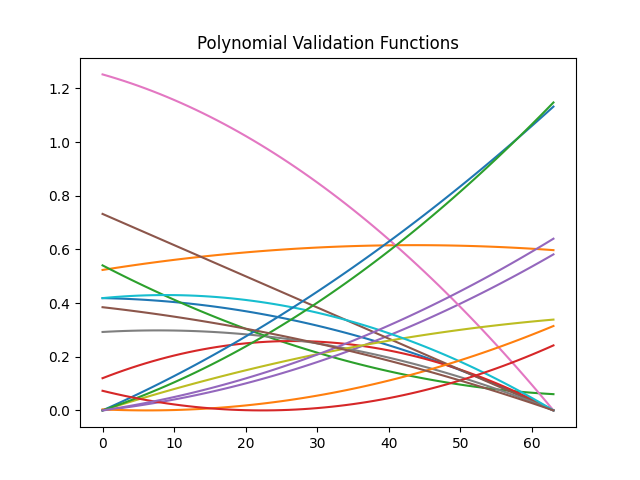
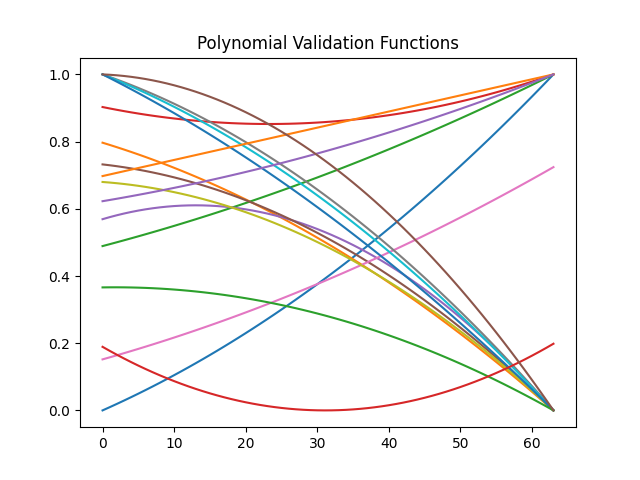
more tuning for sin classifier

diff --git a/py/main.py b/py/main.py
@@ -29,6 +29,7 @@ def get_random_poly(device):
 
     poly_tensor /= 5*NUM_STEPS**2
     poly_tensor -= min(0, torch.min(poly_tensor).item())
+    poly_tensor /= max(1, torch.max(poly_tensor).item())
 
     return poly_tensor
 
@@ -40,12 +41,11 @@ def get_random_sin(device):
     
     w = np.random.random() + 0.025
     phi = np.random.random() * 2*np.pi
-    A = 5 * (2*np.random.random()-1) * NUM_STEPS**2
+    A = np.random.random() / 2
     
     for t in range(NUM_STEPS):
         sin_tensor[t][:] = A*np.sin(w*t + phi)
 
-    sin_tensor /= 5*NUM_STEPS**2
     sin_tensor -= min(0, torch.min(sin_tensor).item())
     
     return sin_tensor
@@ -100,7 +100,7 @@ def main(args):
 
     train(
         net, training_data=train_data, validation_data=val_data,
-        learning_rate=1e-3, batch_size=32, plot=True, checkpoint_freq=10,
+        learning_rate=1e-1, batch_size=1, plot=True, checkpoint_freq=10,
         shuffle=True, classifier=True
     )
         

diff --git a/py/train.py b/py/train.py
@@ -96,7 +96,7 @@ def train(net: linet.LiNet, num_epochs: int=-1, training_data: DataLoader=None, 
 
                 last_grad = last_layer_diff(out)
                 loss_grads = torch.zeros_like(batch_x[i])
-                loss_grads[-1][0] = -last_grad*(batch_y[i] - pred)
+                loss_grads[-1][0] = last_grad*(batch_y[i] - pred)
                 net.backward(batch_x[i], loss_grads)
 
                 done += 1

diff --git a/py/linet.py b/py/linet.py
@@ -7,7 +7,7 @@ import torch
 # maximum number of steps before an impulse must decay
 MAX_SETTLING_TIME = 128
 # maximum number of time-constants that are treated as full decay
-DEFAULT_MAX_TAU = 6
+DEFAULT_MAX_TAU = 4
 # the maxmimum pole location based on MAX_SETTLING_TIME and DEFAULT_MAX_TAU
 INTEGRATOR_LIMIT = -(1/(MAX_SETTLING_TIME/DEFAULT_MAX_TAU))
 # The maximum gradient that can be applied to avoid divergence

diff --git a/README.md b/README.md
@@ -1,2 +1,5 @@
-# ChoiceNet
-A CUDA-based reinforcement learning architecture for hierarchical decision-making in temporal spaces.
+# LiNet
+
+LiNet is a neural net architecture that replaces the weights of a standard feed-forward network with linear transfer functions.
+
+Currently implemented using single-pole (and evantually double-pole) transfer functions.
